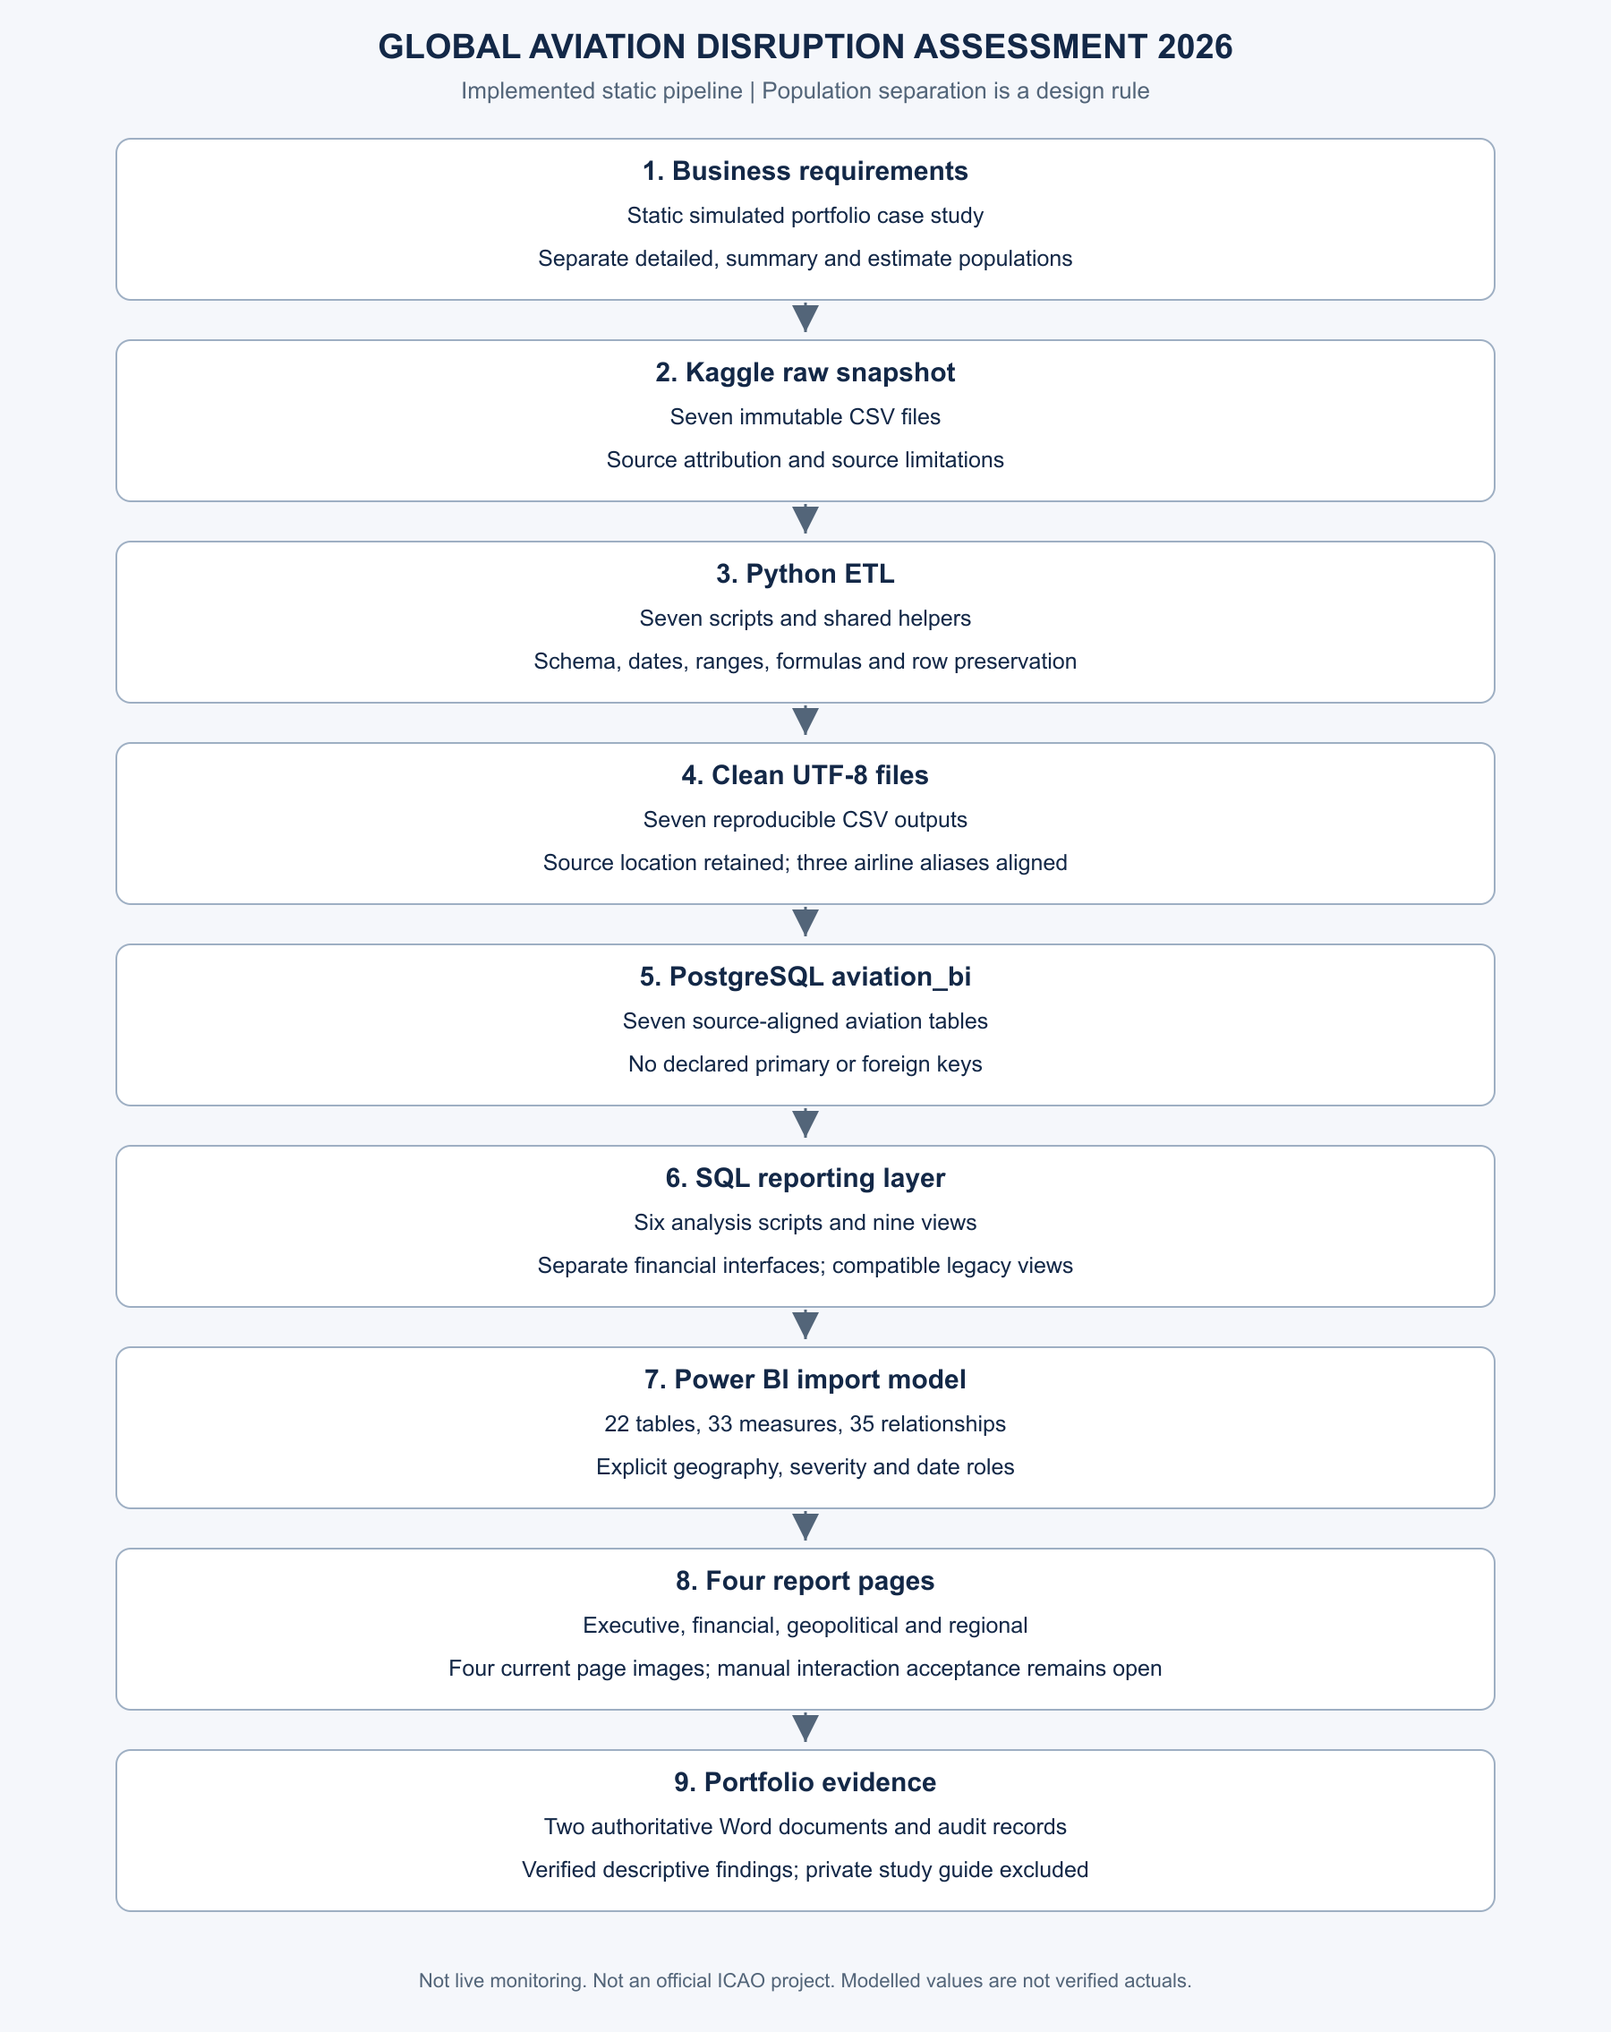
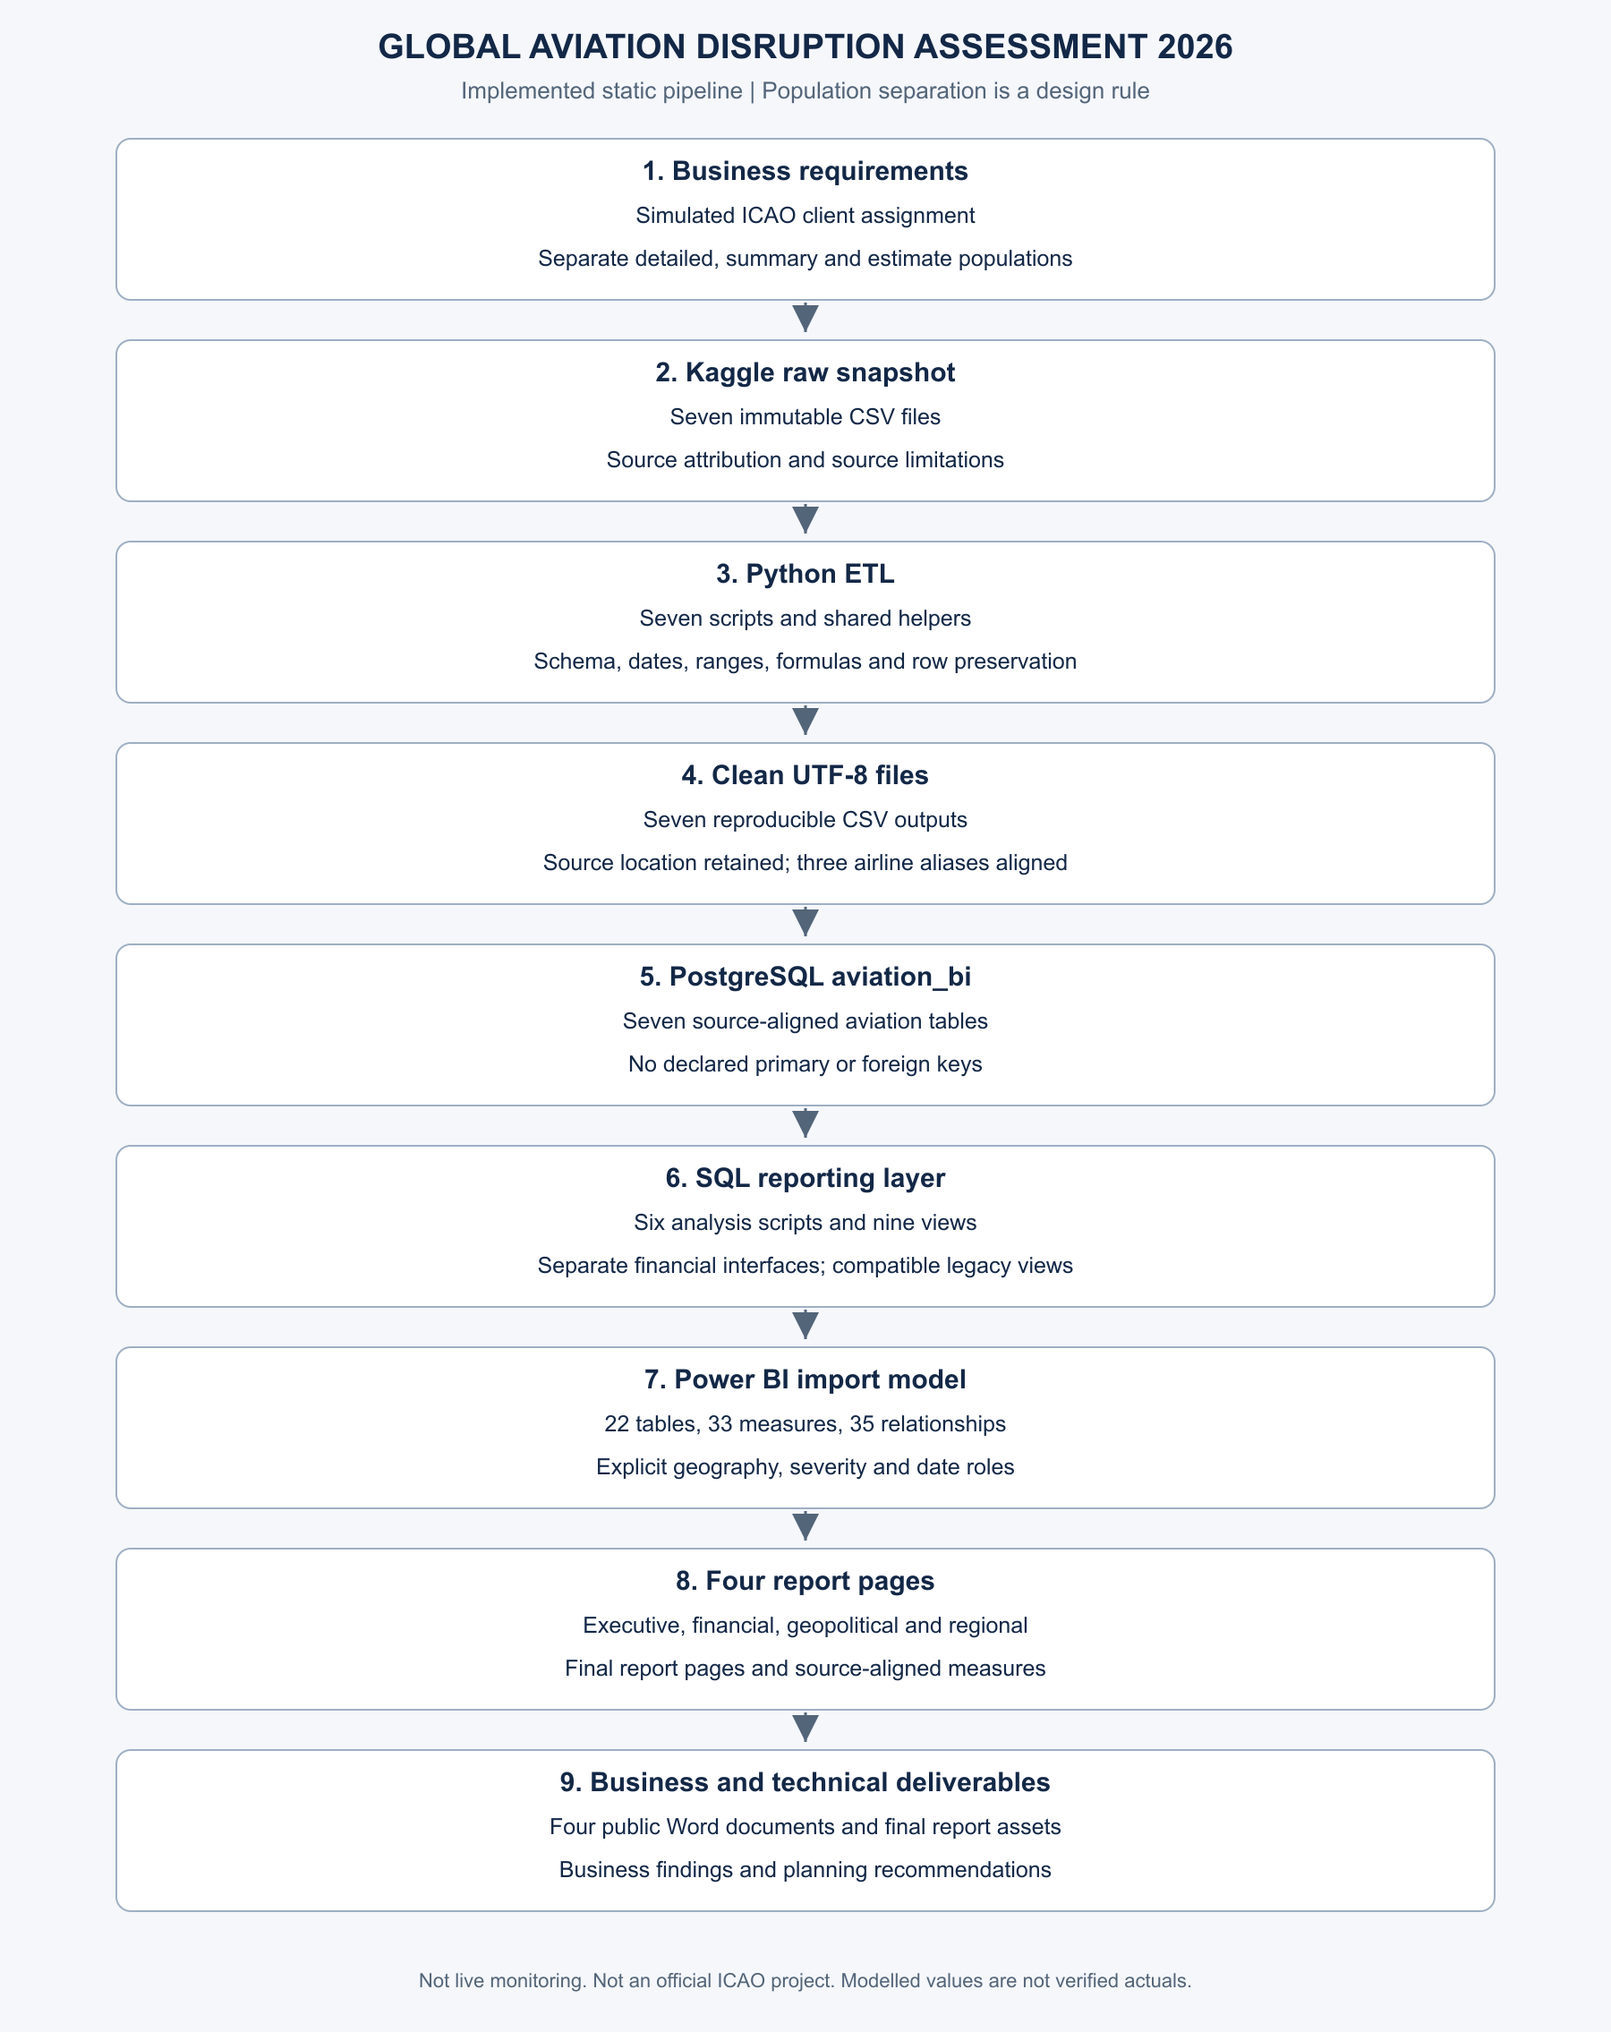
Phase 2 V4

Changed region(s): [[0.3422, 0.8634, 0.6844, 0.9251], [0.3111, 0.8018, 0.6844, 0.8326], [0.4044, 0.0925, 0.5911, 0.1233]]

diff --git a/README.md b/README.md
@@ -1,156 +1,59 @@
 # Global Aviation Disruption Assessment 2026
 
-A business intelligence portfolio project that uses **Python, PostgreSQL and Power BI** to analyse aviation disruption records, regional exposure and modeled financial scenarios.
+An end-to-end business intelligence case study using **Python, PostgreSQL, SQL, and Power BI** to assess aviation disruption, passenger impact, regional exposure, and modeled airline losses.
 
-The project follows seven Kaggle datasets from raw CSV files through cleaning, SQL analysis and a four-page interactive report. Its main analytical challenge is preserving different source populations so that similar-looking metrics are not combined into misleading results.
+The completed project turns seven source datasets into a reproducible analytical workflow and a four-page interactive report. It connects business requirements to data preparation, source-specific analysis, and practical planning recommendations.
 
-> **Data context:** This is a static case study using simulated and modeled data. It is not a live aviation system, an official assessment or evidence of real-world causal effects.
+> This is a simulated ICAO client assignment, not an official ICAO commission or endorsement. Results describe the supplied scenario rather than verified real-world aviation activity.
 
-## Dashboard preview
+## Report preview
 
-![Executive Overview dashboard](visuals/PowerBI_SS/01_Executive_Overview.png)
+![Executive Overview](visuals/PowerBI_SS/01_Executive_Overview.png)
 
-| Report page | What it shows |
-|---|---|
-| [Executive Overview](visuals/PowerBI_SS/01_Executive_Overview.png) | Detailed cancellations, passengers, reroutes, fuel cost, airport exposure and event context |
-| [Modeled Financial Scenarios](visuals/PowerBI_SS/02_Modeled_Financial_Scenarios.png) | Separate airline-loss summaries and daily estimates, with population-specific ratios |
-| [Geopolitical & Operational Disruption](visuals/PowerBI_SS/03_Geopolitical_Operational_Disruption.png) | Disruption timelines, cancellation reasons, airport impact and airspace closures |
-| [Regional Risk & Corridor Vulnerability](visuals/PowerBI_SS/04_Regional_Corridor_Vulnerability.png) | Directional route corridors, additional distance and separate regional exposures |
+[View the complete report](visuals/PowerBI_SS/Global%20Aviation%20Disruption%20Assessment%202026%20DASHBOARD.pdf)
 
-## Business questions
+## What the project delivers
 
-- Where and when are detailed cancellation and reroute records concentrated?
-- What passenger, distance, fuel-cost and delay burdens appear in those records?
-- Which airports and airspace closures have the highest reported exposure?
-- Which airlines and regions show the greatest modeled financial exposure?
-- How do disruption counts differ between military-event and other dates within shared source coverage?
+- **Executive Overview:** cancellation and reroute records, affected passengers, fuel cost, and airport exposure.
+- **Modeled Financial Scenarios:** airline-loss rankings, daily estimates, and ratios within the appropriate financial population.
+- **Geopolitical & Operational Disruption:** operational timelines, cancellation reasons, airport impact, and airspace closures.
+- **Regional Risk & Aviation Corridor Vulnerability:** directional route burdens and separate regional airport, airspace, and financial comparisons.
 
-## Selected findings
+## Key findings
 
-These figures describe the supplied snapshot, not verified aviation activity or audited financial losses.
+- **Passenger impact:** 2,200 cancellation records contain 575,710 affected passengers.
+- **Reroute burden:** 1,500 reroute records add 2.20 million kilometres, USD 11.66 million in fuel cost, and 4,706.30 delay hours.
+- **Regional concentration:** the Middle East accounts for 56.12% of airport-affected flights and, separately, 77.85% of modeled summary airline loss.
+- **Corridor concentration:** Europe to Middle East leads reroute activity with 196 records. The reverse direction leads regional-corridor cancellations with 251 records.
 
-- **Operational detail:** 2,200 cancellation records contain 575,710 affected passengers. The separate reroute dataset has 1,500 records, 2.20 million additional kilometres, USD 11.66 million in extra fuel cost and 4,706.30 delay hours.
-- **Airport concentration:** The Middle East accounts for 56.12% of reported airport-affected flights within the airport dataset.
-- **Route concentration:** Europe to Middle East is the leading detailed reroute corridor, with 196 records, or 13.07% of that dataset. The reverse direction is a separate corridor.
-- **Financial scenarios:** The 70-airline modeled summary reports USD 21.41 billion in loss. A separate 35-airline estimate reports USD 48.84 million in daily loss; these values are not one financial series.
-- **Event-date comparison:** Within the shared 100-day operational window, mean cancellations are 21.08 on military-event dates and 22.07 on other dates. This descriptive comparison does not establish a conflict effect.
-
-See the [Executive Findings](documentation/Global%20Aviation%20Disruption%20Assessment%20Executive%20Findings.docx) for source definitions, calculations and interpretation limits.
+These findings support targeted contingency reviews, passenger-support planning, and separate financial scenario discussions. The case study explains the evidence behind each recommendation.
 
 ## Technical approach
 
 ```text
-Kaggle CSV snapshot
-    → Python cleaning and validation
-    → Clean UTF-8 CSV files
-    → PostgreSQL analytical tables
-    → SQL analysis and reporting views
-    → Power BI Import model
-    → Four report pages
+Raw CSV files → Python validation and cleaning → Clean UTF-8 files
+→ PostgreSQL tables → SQL analysis and views → Power BI Import model
 ```
 
-| Layer | Implementation |
-|---|---|
-| Python | Seven source-specific ETL scripts and shared helpers; schema, date, range, formula and row-preservation checks |
-| PostgreSQL | Seven source-aligned tables, explicit constraints and transactional UTF-8 loading |
-| SQL | Six analytical scripts, population-specific financial views and post-load reconciliation |
-| Power BI | Import mode, explicit DAX measures, one-direction relationships and separate origin/destination geography |
-| Validation | Raw-to-clean reconciliation, clean-to-database equality, control totals and representative model-filter tests |
+The implementation contains seven ETL scripts, shared validation helpers, seven analytical tables, six SQL analysis scripts, and nine views. The Power BI model uses explicit measures and separate date, airline, geography, and severity dimensions.
 
-The [architecture diagram](visuals/Architecture/Project%20Architecture.png) shows the pipeline. The [database and semantic-model diagram](visuals/ERD/ERD%20-1.png) distinguishes PostgreSQL tables from Power BI relationships.
+A key modeling decision is to preserve different source populations. Detailed cancellations and reroutes are not forced to match financial summary counts. Airport and airspace exposures remain separate, and undated financial values are not presented as dated operational trends.
 
-### Skills demonstrated
-
-- Data profiling, cleaning and reproducible ETL
-- SQL aggregation, joins, views and validation
-- Data-grain and metric-population reconciliation
-- Power BI modeling, DAX and filter-context design
-- Business requirements, metric documentation and evidence-based interpretation
-
-## Data reconciliation: the key design decision
-
-The source files describe related concepts but do not prove a shared population.
-
-| Metric population | Source | Size |
-|---|---|---|
-| Detailed cancellations and cancellation passengers | `flight_cancellations` | 2,200 records |
-| Detailed reroutes, distance, fuel and delay | `flight_reroutes` | 1,500 records |
-| Modeled airline-loss summary | `airline_losses` | 70 airlines |
-| Modeled daily airline estimates | `airline_losses_estimate` | 35 airlines |
-| Airport disruption exposure | `airport_disruptions` | 227 records |
-| Airspace closure exposure | `airspace_closures` | 84 records |
-| Conflict-event context | `conflict_events` | 82 records |
-
-For example, the modeled summary contains 6,030 cancellations and 4,539 reroutes, while the detailed datasets contain 2,200 and 1,500 records. These differences are retained and labeled; neither source is rewritten to force agreement. Financial ratios use values from the same financial population.
-
-Airport and airspace affected-flight counts remain separate because no shared flight identifier supports deduplication. The 42 conflict records without a defensible country remain available without invented geography.
-
-## Repository
-
-```text
-data/
-  raw/             Original source CSVs
-  clean/           Reproducible UTF-8 outputs
-python/
-  etl/             Seven cleaning scripts
-  utils/           Shared validation helpers
-sql/
-  01_database/     Database, schema and tables
-  02_loading/      Transactional psql loader
-  03_validation/   Post-load and view checks
-  04_analysis/     Six analytical scripts
-  05_views/        Reporting interfaces
-powerbi/           PBIP report and semantic-model source
-documentation/     Business, technical, findings and audit documents
-visuals/           Dashboard images, architecture and model diagrams
-```
-
-## Run locally
-
-**Requirements:** Python 3.12 or later, PostgreSQL with `psql`, and Power BI Desktop with PBIP support. ETL reproduction was checked with Python 3.14.6 and pandas 3.0.3.
-
-1. Clone the repository and create a local Python environment:
-
-   ```powershell
-   python -m venv .venv
-   .\.venv\Scripts\Activate.ps1
-   python -m pip install -r requirements.txt
-   ```
-
-2. Run the seven scripts in `python/etl/` in numeric order. They generate the corresponding clean CSV files.
-3. Set up the local `aviation_bi` database: database → schema → tables → load → views → validation → analysis. Run the loader, `sql/02_loading/01_load_data.psql`, with **psql**, not a SQL query editor.
-4. Open [the PBIP project](powerbi/Global%20Aviation%20Disruption%20Assessment%202026%20DASHBOARD.pbip). Keep its `.Report` and `.SemanticModel` folders beside it.
-5. Connect Power BI to `localhost` / `aviation_bi`, enter your local PostgreSQL credentials and refresh the imported data.
-
-**Rebuild warning:** Table creation and loading replace this project's existing table data. Use them only for deliberate local setup or rebuilding, not against an unrelated database. Never store credentials in source files.
-
-The [Technical Documentation](documentation/Global%20Aviation%20Disruption%20Assessment%20Technical%20Documentation.docx) contains the complete commands, execution order, connection instructions and troubleshooting.
+See the [architecture](visuals/Architecture/Project%20Architecture.png) and [database and semantic-model diagram](visuals/ERD/ERD%20-1.png).
 
 ## Documentation
 
-| Document | Purpose |
-|---|---|
-| [Business Requirements](documentation/Global%20Aviation%20Disruption%20Assessment%20Business%20Requirements.docx) | Problem statement, objectives, scope, KPI definitions and acceptance criteria |
-| [Technical Documentation](documentation/Global%20Aviation%20Disruption%20Assessment%20Technical%20Documentation.docx) | Data lineage, transformations, schemas, views, model definitions and local setup |
-| [Executive Findings](documentation/Global%20Aviation%20Disruption%20Assessment%20Executive%20Findings.docx) | Verified descriptive results and their limitations |
+- [Business Requirements](documentation/Business%20Requirements.docx): client brief, 24 questions, scope, and acceptance criteria.
+- [Preliminary Data Assessment](documentation/Preliminary%20Data%20Assessment.docx): source coverage, quality checks, and preparation decisions.
+- [Technical Documentation](documentation/Technical%20Documentation.docx): transformations, SQL objects, final Power BI model, and reproduction instructions.
+- [Executive Case Study](documentation/Executive%20Case%20Study.docx): completed findings, dashboard pages, and recommendations.
 
-Supporting verification records: [complete audit](documentation/Complete%20Project%20Audit.md), [file inventory](documentation/Audit%20File%20Inventory.csv) and [change log](documentation/Remediation%20Change%20Log.md). Private study notes and historical documents are excluded from GitHub.
+## Run locally
 
-## Interpretation and verification limits
-
-- Operational records begin in late February 2026; the wider calendar starts in December 2025 for conflict context. Earlier blank operational selections mean unavailable snapshot records, not confirmed zero disruption.
-- Financial summaries and estimates are undated and do not change with date selections.
-- Airspace date filters select closure start dates and sum complete durations, not hours prorated into the selected period.
-- Estimated passengers per estimated reroute is a population-exposure ratio, not aircraft occupancy.
-- No forecasting, causal attribution, mitigation effectiveness or official endorsement is claimed.
-- Automated checks and representative model tests are recorded in the audit. Full manual interaction/accessibility acceptance and fresh-laptop setup are not claimed as passed.
+Clone the full repository. Use Python with `requirements.txt`, PostgreSQL with `psql`, and Power BI Desktop with PBIP support. Follow the technical document for the setup order, then open the PBIP project and connect to your local `aviation_bi` database. Database setup includes destructive rebuild steps; use a dedicated local project database. Never store credentials in the repository.
 
 ## Source and licenses
 
-Data: [Kaggle — Global Civil Aviation Disruption 2026 Iran–US War](https://www.kaggle.com/datasets/zkskhurram/global-civil-aviation-disruption2026-iranus-war). All seven files were downloaded in the first week of August 2026.
+Data: [Global Civil Aviation Disruption 2026 Iran–US War](https://www.kaggle.com/datasets/zkskhurram/global-civil-aviation-disruption2026-iranus-war), attributed under **CC BY-SA 4.0**. Code: [MIT](LICENSE). The code license does not replace the dataset license.
 
-The dataset is attributed under **CC BY-SA 4.0**. Repository code is licensed under [MIT](LICENSE); that license does not replace the dataset license.
-
-## Authors
-
-Dhaerya Nauni and Honey Aggarwal
+**Authors:** Dhaerya Nauni and Honey Aggarwal
